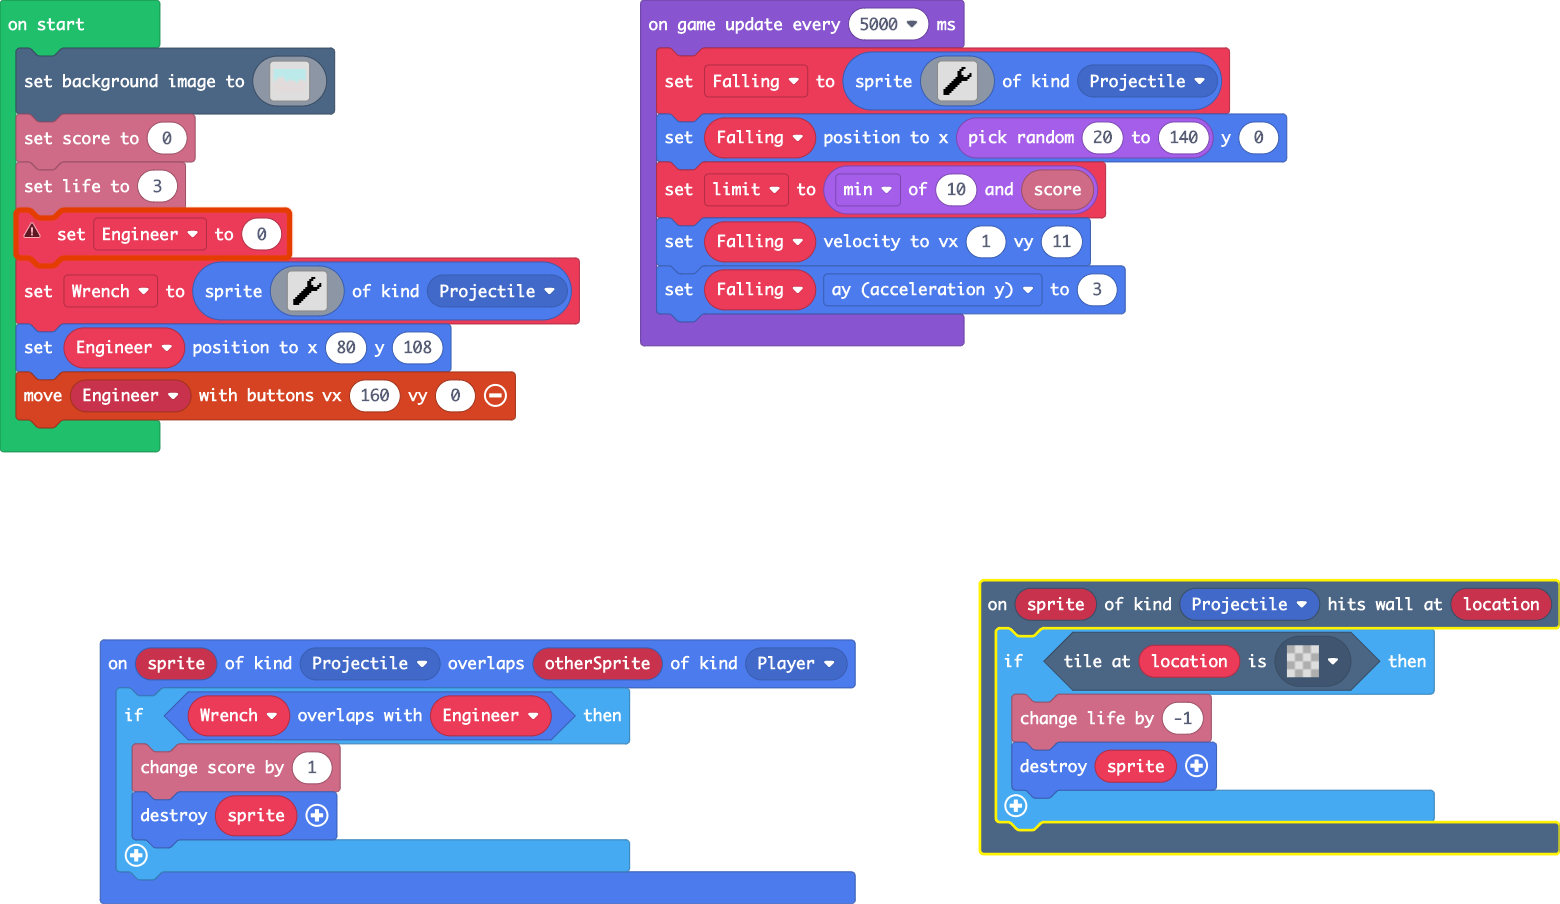
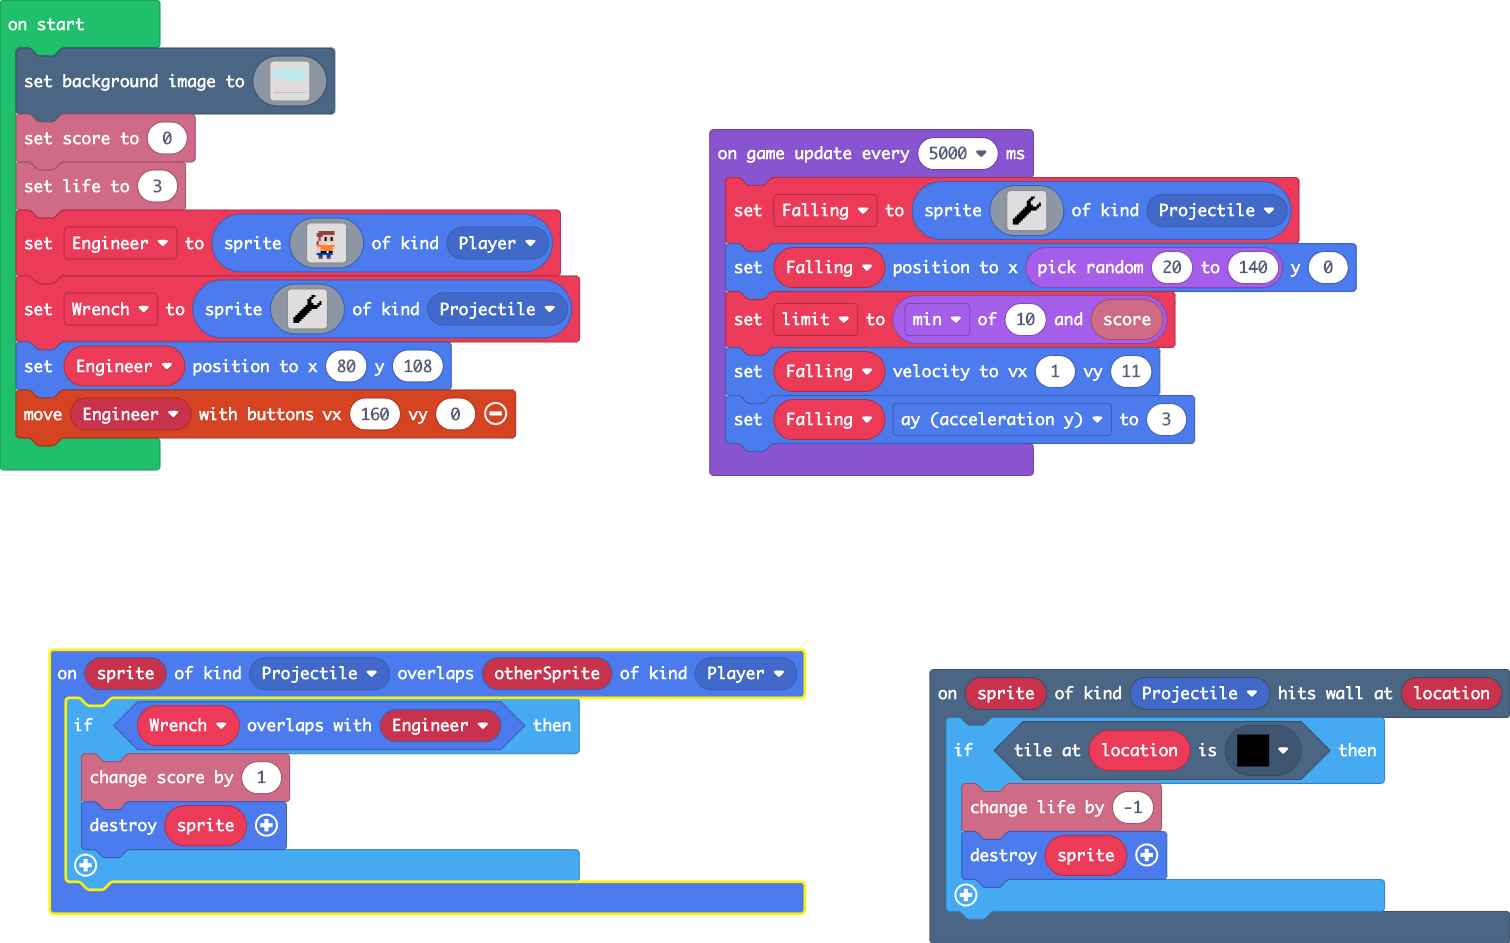
Update main.blocks, main.ts, tilemap.g.jres, tilemap.g.ts

diff --git a/main.ts b/main.ts
@@ -5,7 +5,7 @@ sprites.onOverlap(SpriteKind.Projectile, SpriteKind.Player, function (sprite, ot
     }
 })
 scene.onHitWall(SpriteKind.Projectile, function (sprite, location) {
-    if (tiles.tileAtLocationEquals(location, myTiles.transparency16)) {
+    if (tiles.tileAtLocationEquals(location, myTiles.tile1)) {
         info.changeLifeBy(-1)
         sprite.destroy()
     }
@@ -133,12 +133,29 @@ scene.setBackgroundImage(img`
     dddddddddddddddddddddddddddddddddddddddddddddddddddddddddddddddddddddddddddddddddddddddddddddddddddddddddddddddddddddddddddddddddddddddddddddddddddddddddddddddd
     dddddddddddddddddddddddddddddddddddddddddddddddddddddddddddddddddddddddddddddddddddddddddddddddddddddddddddddddddddddddddddddddddddddddddddddddddddddddddddddddd
     dddddddddddddddddddddddddddddddddddddddddddddddddddddddddddddddddddddddddddddddddddddddddddddddddddddddddddddddddddddddddddddddddddddddddddddddddddddddddddddddd
-    dddddddddddddddddddddddddddddddddddddddddddddddddddddddddddddddddddddddddddddddddddddddddddddddddddddddddddddddddddddddddddddddddddddddddddddddddddddddddddddddd
-    dddddddddddddddddddddddddddddddddddddddddddddddddddddddddddddddddddddddddddddddddddddddddddddddddddddddddddddddddddddddddddddddddddddddddddddddddddddddddddddddd
+    ffffffffffffffffffffffffffffffffffffffffffffffffffffffffffffffffffffffffffffffffffffffffffffffffffffffffffffffffffffffffffffffffffffffffffffffffffffffffffffffff
+    ffffffffffffffffffffffffffffffffffffffffffffffffffffffffffffffffffffffffffffffffffffffffffffffffffffffffffffffffffffffffffffffffffffffffffffffffffffffffffffffff
     `)
 info.setScore(0)
 info.setLife(3)
-Engineer = 0
+Engineer = sprites.create(img`
+    . . . . . . . . . . . . . . . . 
+    . . . . . . . . . . . . . . . . 
+    . . . . e e e e e e e e . . . . 
+    . . . e e e e e e e e e . . . . 
+    . . . e e e d d d d d d . . . . 
+    . . . d e d d f d d f d . . . . 
+    . . . d e d d f d d f d . . . . 
+    . . . e d d d d d d d d . . . . 
+    . . . e d d d d 1 1 d d . . . . 
+    . . . 4 4 4 4 4 4 4 4 4 . . . . 
+    . . . d d 4 4 4 4 4 4 d . . . . 
+    . . . d d 4 4 4 4 4 4 d . . . . 
+    . . . d d f f f 1 f f d . . . . 
+    . . . 8 8 8 8 8 8 8 8 . . . . . 
+    . . . . 8 8 . . 8 8 . . . . . . 
+    . . . . e e . . e e . . . . . . 
+    `, SpriteKind.Player)
 Wrench = sprites.create(img`
     . . . . . . . . . . . . . . . . 
     . . . . . . . . . . f f . . . . 

diff --git a/tilemap.g.ts b/tilemap.g.ts
@@ -2,6 +2,8 @@
 namespace myTiles {
     //% fixedInstance jres blockIdentity=images._tile
     export const transparency16 = image.ofBuffer(hex``);
+    //% fixedInstance jres blockIdentity=images._tile
+    export const tile1 = image.ofBuffer(hex``);
 
 }
 // Auto-generated code. Do not edit.
